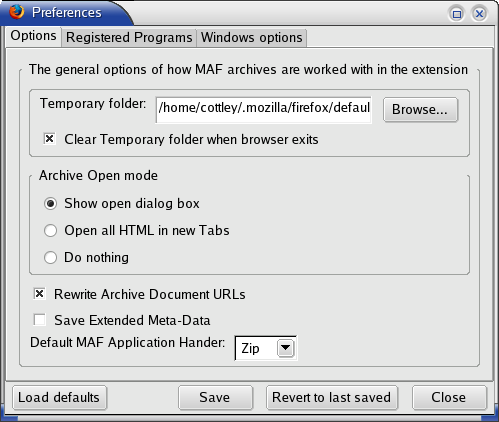
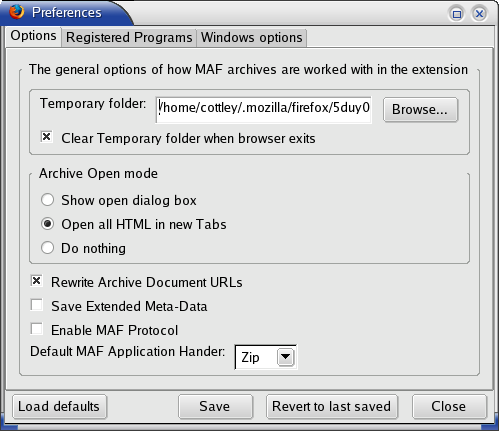
Update for 0.4.0 Release

Changed region(s): [[0.0601, 0.3081, 0.9319, 0.8318], [0.0, 0.0, 0.992, 0.3081], [0.0, 0.7701, 1.0, 0.9858]]

diff --git a/www/installation.html b/www/installation.html
@@ -1,29 +1,48 @@
 <!-- MAIN CONTENT -->
 <h5 class="page-header"><a id="content" name="content">Installation</a></h5>
 
-<p>Below you will find links to the latest XPI installer packages. If this is your first time installing MAF select a operating system specific package. If you have previously installed MAF and there is an XPI upgrade available, then install the upgrade. If you have previously installed MAF but there is no XPI upgrade for your version, please uninstall MAF and then install the latest operating system specific package.</p>
+<p>Below you will find links to the latest XPI installer package. The installer packages have been merged so there is one XPI for both Linux and Windows installations. If you have previously installed MAF in Mozilla, please uninstall MAF and then install the latest package.</p>
 
-<p>Latest XPI - <a href="http://downloads.mozdev.org/maf/maf-linux-0.3.0.xpi">0.3.0 for Linux</a></p>
+<p>Latest XPI - <a href="http://downloads.mozdev.org/maf/maf-0.4.0.xpi">0.4.0 for Linux and Windows</a></p>
 
-<p>Latest XPI - <a href="http://downloads.mozdev.org/maf/maf-windows-0.3.0.xpi">0.3.0 for Windows</a></p>
-
-<!-- p>Latest XPI Upgrade - <a href="http://downloads.mozdev.org/maf/maf-0.3.1.xpi">from 0.3.0 to 0.3.1 platform independent</a></p -->
-
-<p>Please note, if you have previously installed MAF and are installing the 0.3.0 version, the location of scripts and some settings have changed. In order to use the new scripts, go to the <a href="preferences.html">preferences</a>, click on the "Load defaults" button and save the new preferences.</p>
+<p>Please note, if you have previously installed MAF and are installing the 0.3.0 version or higher, the location of scripts and some settings have changed. In order to use the new scripts, go to the <a href="preferences.html">preferences</a>, click on the "Load defaults" button and save the new preferences.</p>
 
 <p>The XPI also sets up the scripts that would be used to perform the actual archiving. This only has to be done once. This is not done if a platform independent upgrade is used. After this is done, the preferences for the MAF extension should be set. MAF is configured by default to work with Infozip's Zip and Unzip programs.</p>
 
 <p>After MAF has been setup, complete the configuration by checking the <a href="preferences.html">preferences</a>.</p>
 
-<p>Previous XPI - <a href="http://downloads.mozdev.org/maf/maf-linux-0.2.20.xpi">0.2.20 for Linux</a></p>
+<p>Previous XPI - <a href="http://downloads.mozdev.org/maf/maf-linux-0.3.0.xpi">0.3.0 for Linux</a></p>
 
-<p>Previous XPI - <a href="http://downloads.mozdev.org/maf/maf-windows-0.2.20.xpi">0.2.20 for Windows</a></p>
+<p>Previous XPI - <a href="http://downloads.mozdev.org/maf/maf-windows-0.3.0.xpi">0.3.0 for Windows</a></p>
 
-<p>Previous XPI Upgrade - <a href="http://downloads.mozdev.org/maf/maf-0.2.20.xpi">from 0.2.19 to 0.2.20 platform independent</a></p>
 
 
 <h5 class="page-header"><a id="changelog" name="changelog">Changes</a></h5>
 <pre>
+ *
+ * Changes from 0.3.0 to 0.4.0
+ *
+ * Merged all the installers. Now a single XPI for Mozilla/Firefox on Windows/Linux.
+ * Changed the default file extension for MAF files to *.maff to avoid extension clashes with MS Access on Windows.
+ * Added French Locale contributed by Xavier Robin.
+ * Added Italian Locale contributed by Gioxx Solone: eXtenZilla.it.
+ * Fixed GUI bug to allow mafsearch extension to work properly.
+ * Fixed bug in post setup version check code to make it work in Firefox 1.0PR.
+ * Fixed bug in clear temp on close so it now leaves temp folder and deletes entries in it.
+ * MHTs now encoded using timeouts to reduce / avoid script speed warnings.
+ * MHT encoding/decoding now 99.99% standards compliant. :).
+ * Converted most Javascript objects and services into XPCOM components.
+ * Added user agent string in preferences to allow access by XPCOM components.
+ * Added code to make URLs absolute when HTML document loads so that form submissions, etc work.
+ * Added Save in Archive context menu entry.
+ * Added new MIME type "application/maf" for better handler support.
+ * Removed the MAF Open archive entry from the file menu. Open file now has all the necessary functionality.
+ * Added maf:// protocol that allows resource viewing of local maf archives (not designed for use with MHT archives).
+ * When saving the document title of the selected tab is used for the default maf archive name.
+ * Created string bundle of english text in code for better localization.
+ * Added preference for disabling the maf:// protocol
+ *
+ *
  * Changes from 0.2.20 to 0.3.0
  *
  * Styled the tree splitters in the browse open archives.

diff --git a/www/faq.html b/www/faq.html
@@ -95,11 +95,11 @@
 <table border="0" cellpadding="5" cellspacing="5" valign="top">
   <tr>
     <td align="right">Question:</td>
-    <td>Why can't I save as MHT?</td>
+    <td>Can I save as MHT?</td>
   </tr>
   <tr>
     <td align="right">Answer:</td>
-    <td>Sheer boredom and still being unemployed was enough of an inspiration for me to do this for MAF 0.2.20. Guess what? That's right, now you <i>can</i> save as MHT. It's not 100% standards compliant, but the saved pages should open properly in IE (which is what you really want it for, right?).</td>
+    <td>As of 0.4.0 MHT Encoding and Decoding is now 99.99% standards compliant. The 0.01% is a sentance I probably missed in all the MHTML related RFCs I read. To save as a MHT archive (compatible with IE) then save the page as a MAF MHT Archive.</td>
   </tr>
 </table>
 
@@ -118,7 +118,7 @@
         <li>Find some way to tell the current thread to sleep</li>
         <li>Implement the code in an XPCOM component</li>
       </ol>
-    The second solution, if available is the easiest and the third solution is the best. We'll see what happens in the next version.
+    I've created an XPCOM component in Javascript that uses mangled setTimeout code to avoid the prompt. It's not faster, but you shouldn't see the prompt coming up (if you do, press cancel like before). If I have the inclination I can re-write the encoder using C++ and replace the javascript component for an instant speed boost. The C++ component isn't in my project plan though, so don't hold your breath. :).
     </td>
   </tr>
 </table>
@@ -176,7 +176,7 @@
   </tr>
   <tr>
     <td align="right">Answer:</td>
-    <td>No-one actually asked this, but I'll answer it anyway. Mozilla's source is a huge download for someone who's still on a 14.4 modem. Heh. That and I recently started playing around with Mozilla based development. This is only my second Mozilla-based project. Also, scripts allow users more control over what archive applications they want to use. Choice is always good.</td>
+    <td>No-one actually asked this, but I'll answer it anyway. Mozilla's source is a huge download for someone who's still on a 14.4 modem. Heh. That and I recently started playing around with Mozilla based development. This is only my second Mozilla-based project. Also, scripts allow users more control over what archive applications they want to use. Choice is always good. Most of the code now provides XPCOM component interfaces though.</td>
   </tr>
 </table>
 
@@ -189,7 +189,8 @@
   </tr>
   <tr>
     <td align="right">Answer:</td>
-    <td>I'm experimenting with XPCOM library development tools. Thus, the FAXP project (nowhere to host it currently - it might end up on sourceforge). Basically it's an ANT-based build of the fastcomponent <a href="http://fastcomponent.mozdev.org/">project</a>. FAXP - Fast Ant XPcom framework. It uses ant-contrib and beanshell to download template files via cvs and fill out the template information. The aim is to make it easily usable across platforms and allow developers to use either the gecko sdk or mozilla source for development.</td>
+    <td>I'm experimenting with XPCOM library development tools. Thus, the FAXP project (nowhere to host it currently - it might end up on sourceforge). Basically it's an ANT-based build of the fastcomponent <a href="http://fastcomponent.mozdev.org/">project</a>. FAXP - Fast Ant XPcom framework. It uses ant-contrib and beanshell to download template files via cvs and fill out the template information. The aim is to make it easily usable across platforms and allow developers to use either the gecko sdk or mozilla source for development.<br /><br />
+    Another project I'm working on is the mafsearch project (I know, needs a cooler name). It's a front end installed in Firefox that lets you search indexed MAF files for content. It uses the Apache Lucene search engine library and filters that hook into Mozilla preferences. Currently unreleased.</td>
   </tr>
 </table>
 

diff --git a/www/index.html b/www/index.html
@@ -4,7 +4,7 @@
 <div class="infoTab" id="whats-new">
 <h5 class="infoHeader">What's New</h5>
 <ul>
-<li>MAF 0.3.0 released.</li>
+<li>MAF 0.4.0 released.</li>
 </ul>
 </div>
 
@@ -15,8 +15,10 @@
 <li>Archive saved pages using a registered archive application</li>
 <li>Shortcut keys for opening and browsing open archives</li>
 <li>URLs in archive documents can be replaced if there's a local version in an open archive</li>
-<li>MHTML read and write support partially implemented</li>
+<li>MHTML read and write support implemented</li>
 <li>Store more than one saved page in an archive</li>
+<li>Localized in French and Italian</li>
+<li>maf:// protocol capability</li>
 </ul>
 </div>
 
@@ -47,13 +49,17 @@
 <!-- MAIN CONTENT -->
 <p>The <b><?php echo ucwords($project); ?></b> project is an archive extension that allows complete web pages to be saved in a single archive file. MAF stands for Mozilla Archive Format and the extension uses RDF to save page meta-data such as the original URL of the page and the date/time the page was put in the archive. Starting with the 0.2.20 release a seperate <a href="bugs.html">bugs</a> page has been setup for known bugs in the release. Please check there first before reporting any bugs.</p>
 
+<p>
+If you use MAF and like it, please consider a <a href="donate.html">donation</a>.
+</p>
+
 <p><b>License:</b> The MAF extension is released under the <a href="license.html">GNU GPL</a>.</p>
 
 <p><b>Author:</b> Christopher Ottley.</p>
 
 <p><b>Aim:</b> To provide a Firefox (and Mozilla) extension which allows web pages to be saved easily in an archive.</p>
 
-<p><b>Design:</b> To provide maximum flexibility, registered external programs are used to perform the archiving and expansion process. The extension *.MAF refers to files which can be processed using the default registered file archive program (for example Zip). File archive specific extensions may be used to indicate which program to use with the archive, example *.MAF.ZIP for a Zip archive, *.MAF.7Z for a 7Zip archive.</p>
+<p><b>Design:</b> To provide maximum flexibility, registered external programs are used to perform the archiving and expansion process. The extension *.MAFF refers to files which can be processed using the default registered file archive program (for example Zip). File archive specific extensions may be used to indicate which program to use with the archive, example *.MAF.ZIP for a Zip archive, *.MAF.7Z for a 7Zip archive.</p>
 
 <p><b>Archive Application Requirements:</b> To be able to use a particular archive application the application must support:
 <ul>
@@ -70,16 +76,12 @@
 
 <p><b>Tested on:</b>
   <ul>
-   <li>FireFox 0.9, Mozilla 1.7, Linux i686.</li>
-   <li>FireFox 0.9, Mozilla 1.7, Windows 2000.</li>
+   <li>FireFox 1.0PR, Mozilla 1.7.3, Linux i686.</li>
+   <li>FireFox 1.0PR, Mozilla 1.7.3, Windows 2000.</li>
   </ul>
 </p>
 
 <p><b>Note:</b> As of version 0.3.0 MAF is officially out of beta.</p>
-
-<p>
-If you use MAF and like it, please consider a <a href="donate.html">donation</a>.
-</p>
 
 <p>
 <script language="Javascript" src="http://nextgenstats.com/cgi-bin/log.pl?site=13263490&amp;style=text&amp;offset=0"></script>

diff --git a/www/docs.html b/www/docs.html
@@ -12,7 +12,9 @@
 <a name="removingmaf" />
 <h2>Removing MAF</h2>
 
-<p>For version 0.3.0 with Firefox 0.9 or higher, use the built in uninstall from the extension manager. Since MAF scripts and temporary folders are in the profile folder, remove the maf folder and any sub-folders or files that are present.</p>
+<p>For version 0.3.0 or 0.4.0 with Firefox 0.9 or higher, use the built in uninstall from the extension manager. Since MAF scripts and temporary folders are in the profile folder, remove the maf folder and any sub-folders or files that are present.</p>
+
+<p>For version 0.4.0 with Mozilla 1.7+, go to the profile folder and under the chrome directory remove maf.jar. Edit the chrome.rdf and remove all the RDF descriptions that contain MAF. There should also be an overlayinfo folder. In the browser/content/overlays.rdf file remove the RDF list item entry with MAF. If it is the only entry, you may remove the entire file. In the navigator/content/overlays.rdf perform the same action. Since MAF scripts and temporary folders are in the profile folder, remove the maf folder and any sub-folders or files that are present. In the components folder of the Mozilla installation, delete the following files: maf.0.4.0.xpt, nsMafArchiver.js, nsMafDocumentViewerFactory.js, nsMafGuiHandler.js, nsMafMhtDecoder.js, nsMafMhtEncoder.js, nsMafMhtHandler.js, nsMafPreferences.js, nsMafPreferencesRec.js, nsMafProtocol.js, nsMafState.js, nsMafStringValue.js, nsMafTabArchiver.js, nsMafTabExpander.js, nsMafUtil.js</p>
 
 <p>For version 0.3.0 with Mozilla 1.7+ or Firefox 0.8, go to the profile folder and under the chrome directory remove maf.jar. Edit the chrome.rdf and remove all the RDF descriptions that contain MAF. There should also be an overlayinfo folder. In the browser/content/overlays.rdf file remove the RDF list item entry with MAF. If it is the only entry, you may remove the entire file. In the navigator/content/overlays.rdf perform the same action. Since MAF scripts and temporary folders are in the profile folder, remove the maf folder and any sub-folders or files that are present.</p>
 
@@ -46,7 +48,12 @@
   <tr>
     <td>maf.defaultmafhandler</td>
     <td>integer</td>
-    <td>The default extension registration that is associated with .maf</td>
+    <td>The default extension registration that is associated with .maff</td>
+  </tr>
+  <tr>
+    <td>maf.enableMafProtocol</td>
+    <td>boolean</td>
+    <td>true if the maf:// protocol has been enabled.</td>
   </tr>
   <tr>
     <td>maf.ext.0.archive</td>
@@ -77,6 +84,11 @@
     <td>maf.ext.0.masklength</td>
     <td>integer</td>
     <td>The number of masks that match for this extension.</td>
+  </tr>
+  <tr>
+    <td>maf.general.useragent</td>
+    <td>string</td>
+    <td>The current user agent string.</td>
   </tr>
   <tr>
     <td>maf.noofextensions</td>

diff --git a/www/preferences.html b/www/preferences.html
@@ -49,3 +49,8 @@ This feature is available from MAF version 0.2.20 and higher. With this preferen
 <br/><br/>
 This feature is has been made available from MAF version 0.2.20 and higher. With this preference enabled, additional page information such as history, text zoom and scroll position is saved for each page. There is currently no preference to restore this saved information as yet.
 </p>
+
+<p><b>Preferences: Enable MAF Protocol</b>
+<br/><br/>
+This feature is has been made available from MAF version 0.4.0 and higher. With this preference enabled, users may access resources within maf archives with the maf:// protocol specification. The format of the MAF protocol is maf:// followed by a URI of a MAF file, followed by an exclamation mark, followed by the resource. As an example maf://file:///home/cottley/mafs/parse.html.maff!1092306423080_665/index.html indicates that the parse.html.maff file's resource 1092306423080_665/index.html is to be displayed. If the archive is not opened before this protocol is specified, it is opened silently in the background. Currently this protocol only works with file URIs.
+</p>

diff --git a/www/screenshots.html b/www/screenshots.html
@@ -12,7 +12,7 @@
   </td>
   <td>
 
-Browsing three open archives. Archive 1, a decoded MHT file, Archive 2, some pages from slashdot.org and Archive 3, XPCOM interface pages from xulplanet.mozdev.org. Note in Archive 3 there are some pages that were added on a different day to the archive than the first set of entries.
+Browsing an open archive. Archive 1, some pages from slashdot.org.
 
   </td>
 </tr>

diff --git a/www/project_nav.html b/www/project_nav.html
@@ -19,6 +19,7 @@
   <th scope="row">resources:</th>
   <td class="navigation-list">
   <a class="first-item" href="/index.html">Home</a>
+  <a href="/donate.html">Donate</a>
   <a href="/list.html">Mailing List</a>
   <a href="/installation.html">Installation</a>
   <a href="/preferences.html">Preferences</a>
